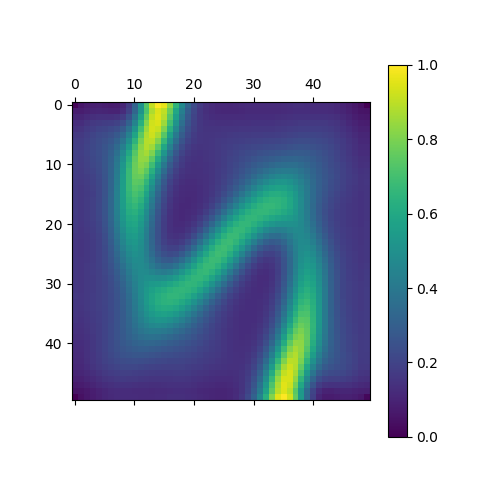
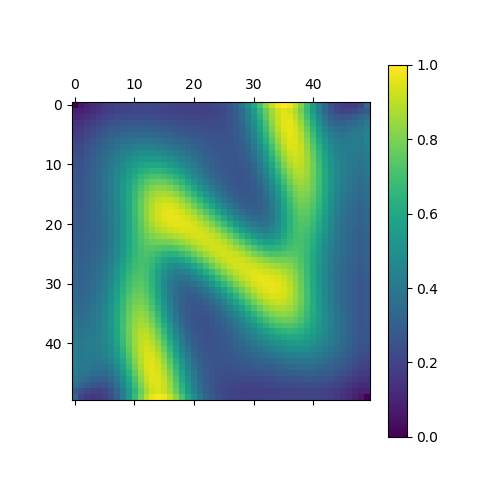
modified:   figures/clusts.png 	modified:   figures/project.png 	modified:   figures/project_clusts.png 	modified:   figures/umat.png 	modified:   main.py

diff --git a/main.py b/main.py
@@ -49,9 +49,10 @@ X = X.to(device)
 if not os.path.exists('out/trained.p'):
     m, n = 50, 50
     dim = X.shape[1]
-    niter = 30
-    batch_size = 10
-    som = som.SOM(m, n, dim, niter=niter, device=device, precompute=True, periodic=False)
+    niter = 100
+    batch_size = 100
+    som = som.SOM(m, n, dim, niter=niter, device=device, precompute=True,
+                  periodic=False, sched='exp')
     learning_error = som.fit(X, batch_size=batch_size)
     bmus, inference_error = som.predict(X, batch_size=batch_size)
 
